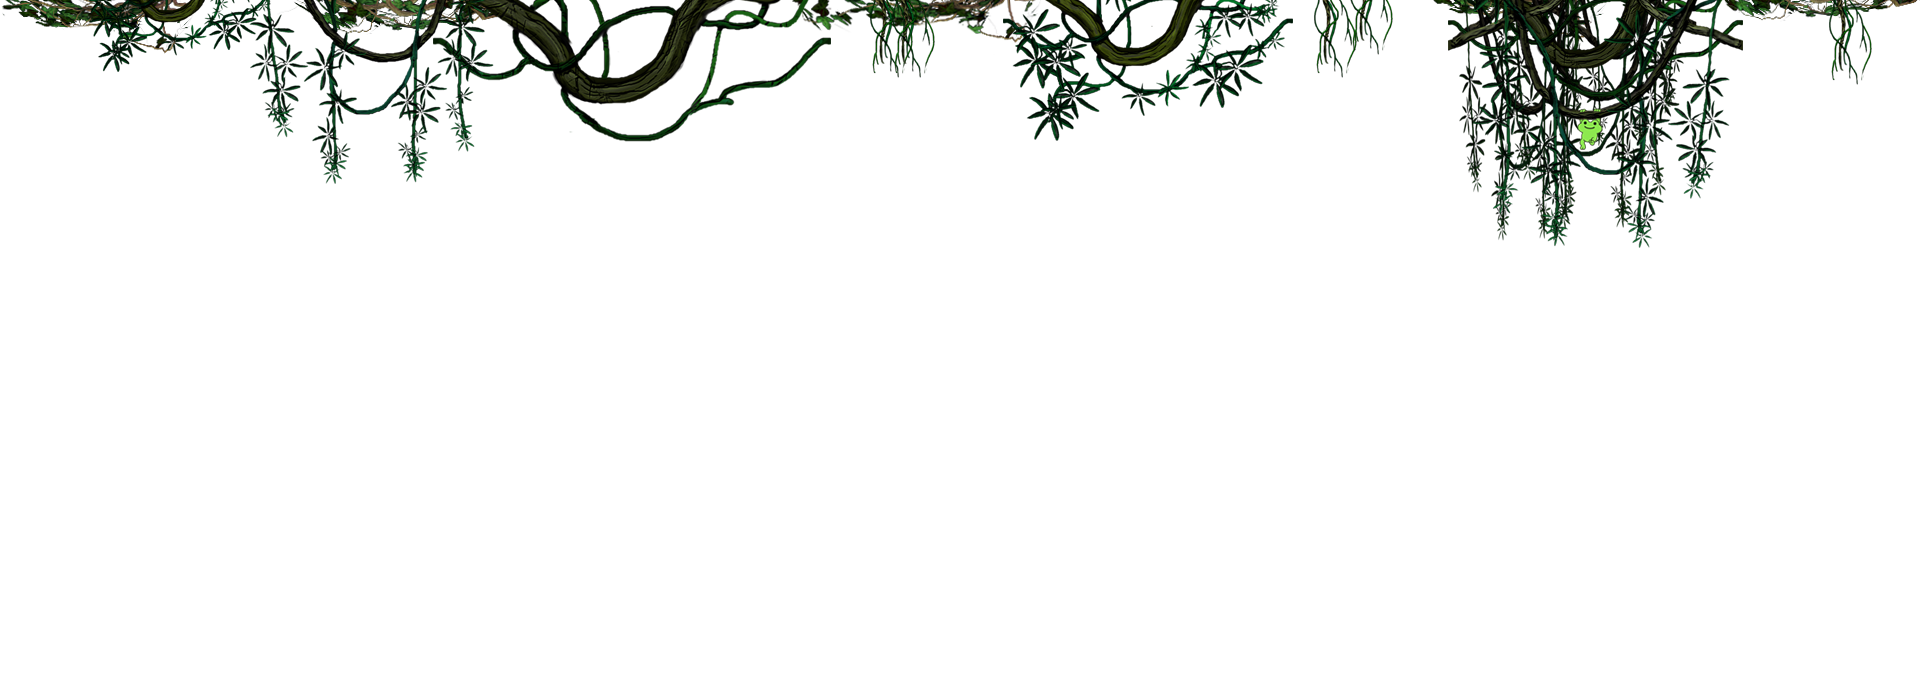
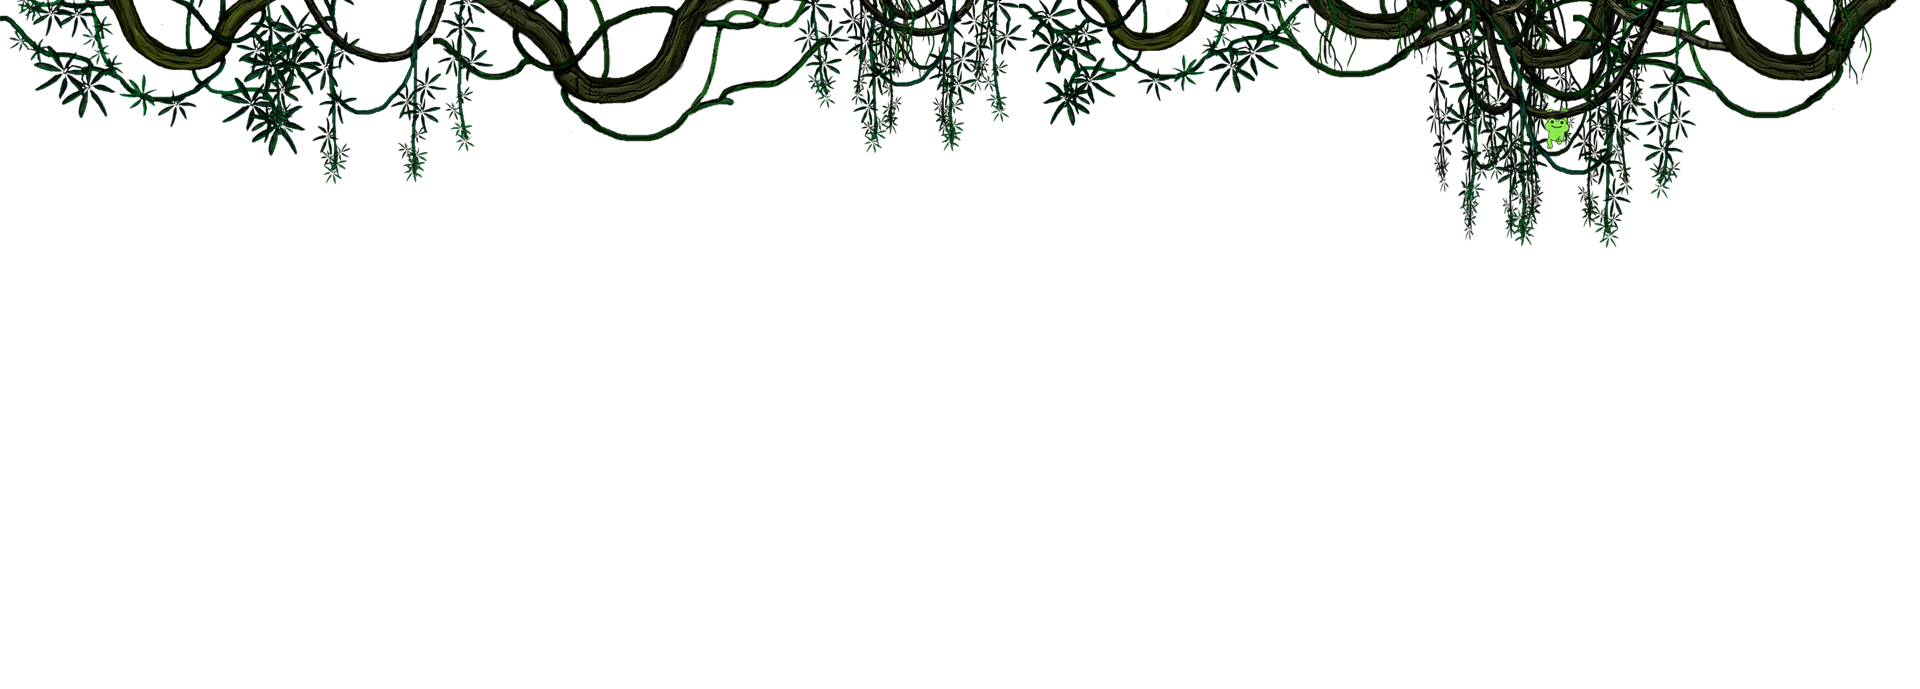
fixing up map 4 top vines. adding 2 new zabby images for map4 and ufo for bonusmap3

Changed region(s): [[0.4062, 0.0, 1.0, 0.3657], [0.0, 0.0, 0.2812, 0.2134]]

diff --git a/__tests__/background/background.test.js b/__tests__/background/background.test.js
@@ -24,7 +24,9 @@ import {
     ShootingStar,
     DragonSilhouette,
     MeteorBackground,
+    ZabbyFlyBy,
     Map3Zabby1FlyBy,
+    BonusMap3Zabby6FlyBy,
 } from '../../game/background/background.js';
 
 function makeSoundtrack() {
@@ -162,7 +164,7 @@ function seedDomImages() {
         'map4Trees4',
         'map4Trees2',
         'map4Trees1',
-        'map4TopVines',
+        'map4TopVines1',
         'map4Ground',
         // zabby
         'map4Zabby1',
@@ -285,6 +287,7 @@ function seedDomImages() {
         'bonusMap3Zabby3',
         'bonusMap3Zabby4',
         'bonusMap3Zabby5',
+        'bonusMap3Zabby6',
 
         // sprites
         'dragonSilhouette',
@@ -311,6 +314,7 @@ function seedDomImages() {
 
     setElSize('shark', 120, 60);
     setElSize('whale', 160, 80);
+    setElSize('bonusMap3Zabby6', 113, 80);
 
     // rain sprite sheet
     setElSize('raindropSplash', 120, 20);
@@ -1130,7 +1134,7 @@ describe('Map constructors', () => {
         { Cls: Map7, id: 'map7Soundtrack', expectedLen: 16 },
         { Cls: BonusMap1, id: 'bonusMap1Soundtrack', expectedLen: 11 },
         { Cls: BonusMap2, id: 'bonusMap2Soundtrack', expectedLen: 23 },
-        { Cls: BonusMap3, id: 'bonusMap3Soundtrack', expectedLen: 9 },
+        { Cls: BonusMap3, id: 'bonusMap3Soundtrack', expectedLen: 10 },
     ];
 
     test.each(specs)('%s wires soundtrack id and expected background layer count', ({ Cls, id, expectedLen }) => {
@@ -1810,12 +1814,12 @@ describe('ShootingStar', () => {
 });
 
 // -----------------------------------------------------------------------------
-// Map3Zabby1FlyBy
+// ZabbyFlyBy
 // -----------------------------------------------------------------------------
-describe('Map3Zabby1FlyBy', () => {
+describe('ZabbyFlyBy', () => {
     test('triggerOneShot spawns from either side and y is centered (40%-60% height)', () => {
         const game = { width: 600, height: 400 };
-        const flyby = new Map3Zabby1FlyBy(game);
+        const flyby = new ZabbyFlyBy(game);
         flyby.setOneShotImageIds(['map3Zabby1']);
 
         const ok = flyby.triggerOneShot();
@@ -1831,7 +1835,7 @@ describe('Map3Zabby1FlyBy', () => {
 
     test('update marks one-shot as shown when it goes offscreen', () => {
         const game = { width: 600, height: 400 };
-        const flyby = new Map3Zabby1FlyBy(game);
+        const flyby = new ZabbyFlyBy(game);
         flyby.setOneShotImageIds(['map3Zabby1']);
         flyby.triggerOneShot();
 
@@ -1852,7 +1856,7 @@ describe('Map3Zabby1FlyBy', () => {
 
         const smallFish = new SmallFish(game, 3);
         const bigFish = new BigFish(game, 1);
-        const flyby = new Map3Zabby1FlyBy(game);
+        const flyby = new ZabbyFlyBy(game);
 
         flyby.setOneShotImageIds(['map3Zabby1']);
 
@@ -1864,6 +1868,37 @@ describe('Map3Zabby1FlyBy', () => {
         expect(smallFish.backgroundEntities.length).toBe(smallFishCountBefore);
         expect(bigFish.backgroundEntities.length).toBe(bigFishCountBefore);
         expect(flyby._active).toBe(true);
+    });
+});
+
+describe('Map3Zabby1FlyBy', () => {
+    test('inherits the generic fly-by behavior for map 3 usage', () => {
+        const flyby = new Map3Zabby1FlyBy({ width: 600, height: 400 });
+        expect(flyby).toBeInstanceOf(ZabbyFlyBy);
+    });
+});
+
+describe('BonusMap3Zabby6FlyBy', () => {
+    test('triggerOneShot uses the bonus map 3 fly-by sprite and keeps the same across-screen behavior', () => {
+        const game = { width: 600, height: 400 };
+        const flyby = new BonusMap3Zabby6FlyBy(game);
+        flyby.setOneShotImageIds(['bonusMap3Zabby6']);
+
+        const ok = flyby.triggerOneShot();
+        expect(ok).toBe(true);
+        expect(flyby.imageId).toBe('bonusMap3Zabby6');
+        expect(flyby.image.width).toBe(113);
+        expect(flyby.image.height).toBe(80);
+        expect(flyby.y).toBeGreaterThanOrEqual(game.height * 0.4);
+        expect(flyby.y).toBeLessThanOrEqual(game.height * 0.6);
+
+        if (flyby._spawnedFromLeft) expect(flyby.x).toBeLessThan(0);
+        else expect(flyby.x).toBeGreaterThan(game.width);
+    });
+
+    test('inherits the generic fly-by behavior for bonus map 3 usage', () => {
+        const flyby = new BonusMap3Zabby6FlyBy({ width: 600, height: 400 });
+        expect(flyby).toBeInstanceOf(ZabbyFlyBy);
     });
 });
 

diff --git a/game/background/background.js b/game/background/background.js
@@ -544,7 +544,7 @@ export class Map4 extends Background {
             { imageId: 'map4Trees2', bgSpeed: 0.53 },
             { imageId: 'map4Trees1', bgSpeed: 0.65 },
             fireflyLayer3,
-            { imageId: 'map4TopVines', zabbyId: ['map4Zabby2', 'map4Zabby4'], bgSpeed: 0.92 },
+            { imageId: ['map4TopVines1', 'map4TopVines2'], zabbyId: ['map4Zabby2', 'map4Zabby4', 'map4Zabby5'], bgSpeed: 0.92 },
             { imageId: 'map4Ground', bgSpeed: 1 },
         );
 
@@ -799,7 +799,10 @@ export class BonusMap3 extends Background {
             minSpeed: 0.03,
             maxSpeed: 0.06,
         });
+        const zabby6FlyBy = new BonusMap3Zabby6FlyBy(game);
+
         meteors.setOneShotImageIds(['bonusMap3Zabby2']);
+        zabby6FlyBy.setOneShotImageIds(['bonusMap3Zabby6']);
 
         super(
             game,
@@ -807,6 +810,7 @@ export class BonusMap3 extends Background {
             starField,
             shootingStars,
             meteors,
+            zabby6FlyBy,
             { imageId: 'bonusMap3Stars', bgSpeed: 0.1 },
             { imageId: ['bonusMap3Planets6', 'bonusMap3Planets2', 'bonusMap3Planets3', 'bonusMap3Planets4', 'bonusMap3Planets5', 'bonusMap3Planets1'], zabbyId: ['bonusMap3Zabby3', 'bonusMap3Zabby4', 'bonusMap3Zabby5'], bgSpeed: 0.2 },
             { imageId: 'bonusMap3Nebula', zabbyId: 'bonusMap3Zabby1', bgSpeed: 0.35 },
@@ -963,8 +967,8 @@ export class Firefly extends EntityAnimation {
         context.globalAlpha = 1;
     }
 }
-export class Map3Zabby1FlyBy extends EntityAnimation {
-    constructor(game) {
+export class ZabbyFlyBy extends EntityAnimation {
+    constructor(game, options = {}) {
         super(game, 1);
 
         this.game = game;
@@ -981,14 +985,19 @@ export class Map3Zabby1FlyBy extends EntityAnimation {
 
         this._active = false;
 
-        this._minSpeed = 1.6;
-        this._maxSpeed = 2.6;
-        this._maxAngleRad = Math.PI / 24;
-        this._offscreenPad = 40;
+        this._minSpeed = options.minSpeed ?? 1.6;
+        this._maxSpeed = options.maxSpeed ?? 2.6;
+        this._maxAngleRad = options.maxAngleRad ?? Math.PI / 24;
+        this._offscreenPad = options.offscreenPad ?? 40;
 
-        this._spriteFacesRight = true;
+        this._spriteFacesRight = options.spriteFacesRight ?? true;
 
-        this._debug = false;
+        this._debug = options.debug ?? false;
+        this._spawnYBand = {
+            min: options.spawnYMin ?? 0.40,
+            max: options.spawnYMax ?? 0.60,
+        };
+        this._debugLabel = options.debugLabel ?? this.constructor.name;
 
         this._spawnedFromLeft = null;
     }
@@ -1006,8 +1015,8 @@ export class Map3Zabby1FlyBy extends EntityAnimation {
         const fromLeft = Math.random() < 0.5;
         this._spawnedFromLeft = fromLeft;
 
-        const yMin = this.game.height * 0.40;
-        const yMax = this.game.height * 0.60;
+        const yMin = this.game.height * this._spawnYBand.min;
+        const yMax = this.game.height * this._spawnYBand.max;
         this.y = this._rand(yMin, yMax);
 
         this.x = fromLeft
@@ -1026,7 +1035,7 @@ export class Map3Zabby1FlyBy extends EntityAnimation {
 
         if (this._debug) {
             console.log(
-                `[Map3Zabby1FlyBy] spawn=${fromLeft ? "LEFT" : "RIGHT"} ` +
+                `[${this._debugLabel}] spawn=${fromLeft ? "LEFT" : "RIGHT"} ` +
                 `dirX=${this.directionX.toFixed(2)} dirY=${this.directionY.toFixed(2)} ` +
                 `x=${this.x.toFixed(1)} y=${this.y.toFixed(1)}`
             );
@@ -1102,6 +1111,24 @@ export class Map3Zabby1FlyBy extends EntityAnimation {
         );
 
         context.restore();
+    }
+}
+
+export class Map3Zabby1FlyBy extends ZabbyFlyBy {
+    constructor(game, options = {}) {
+        super(game, {
+            debugLabel: 'Map3Zabby1FlyBy',
+            ...options,
+        });
+    }
+}
+
+export class BonusMap3Zabby6FlyBy extends ZabbyFlyBy {
+    constructor(game, options = {}) {
+        super(game, {
+            debugLabel: 'BonusMap3Zabby6FlyBy',
+            ...options,
+        });
     }
 }
 

diff --git a/game/style.css b/game/style.css
@@ -106,7 +106,7 @@ body {
 /* map3 */
 #map3Background, #map3Ground, #map3Zabby1, #map3Zabby2, #map3Zabby3, #map3Zabby4, #map3Zabby5, #map3BackgroundRocks, #map3seaPlants1, #map3seaPlants2, #map3seaPlants3, #map3seaPlants4, #map3seaPlants5, #map3seaPlants6, #map3seaPlants7, #map3seaPlants8, #map3seaPlants9, 
 /* map4 */ 
-#map4Background, #map4Ground, #map4Zabby1, #map4Zabby2, #map4Zabby3, #map4Zabby4, #map4BottomVines, #map4TopVines, #map4Trees1, #map4Trees2, #map4Trees3, #map4Trees4, 
+#map4Background, #map4Ground, #map4Zabby1, #map4Zabby2, #map4Zabby3, #map4Zabby4, #map4Zabby5, #map4BottomVines, #map4TopVines1, #map4TopVines2, #map4Trees1, #map4Trees2, #map4Trees3, #map4Trees4, 
 /* map5 */ 
 #map5Background, #map5Ground, #map5Zabby1, #map5Zabby2, #map5Zabby3, #map5Zabby4, #map5Flowers1, #map5Flowers2, #map5Bush1, #map5Bush2, #map5Trees1, #map5Trees2, #map5Trees3, #map5Trees4, #map5BigSunflowers1, #map5BigSunflowers2, #map5TallGrass, #map5Cattails,
 /* map6 */ 
@@ -118,7 +118,7 @@ body {
 /* bonusmap2 */ 
 #bonusMap2Background, #bonusMap2Ground, #bonusMap2Zabby1, #bonusMap2Zabby2, #bonusMap2Zabby3, #bonusMap2Zabby4, #bonusMap2SpikeRocks, #bonusMap2RockLayer1, #bonusMap2RockLayer2, #bonusMap2RockLayer3, #bonusMap2RockLayer4, #bonusMap2RockLayer5, #bonusMap2CrypticRocks1, #bonusMap2CrypticRocks2, #bonusMap2DeadTrees, #bonusMap2RedMist,
 /* bonusmap3 */ 
-#bonusMap3Background, #bonusMap3Ground, #bonusMap3Zabby1, #bonusMap3Zabby2, #bonusMap3Zabby3, #bonusMap3Zabby4, #bonusMap3Zabby5, #bonusMap3Stars, #bonusMap3PurpleSpiral, #bonusMap3Nebula, #bonusMap3Planets1, #bonusMap3Planets2, #bonusMap3Planets3, #bonusMap3Planets4, #bonusMap3Planets5, #bonusMap3Planets6, 
+#bonusMap3Background, #bonusMap3Ground, #bonusMap3Zabby1, #bonusMap3Zabby2, #bonusMap3Zabby3, #bonusMap3Zabby4, #bonusMap3Zabby5, #bonusMap3Zabby6, #bonusMap3Stars, #bonusMap3PurpleSpiral, #bonusMap3Nebula, #bonusMap3Planets1, #bonusMap3Planets2, #bonusMap3Planets3, #bonusMap3Planets4, #bonusMap3Planets5, #bonusMap3Planets6, 
 /* secondaryImageLayers */ 
     /* fish */ 
     #jellyfish, #fish, #fish2, #fish3, #fish4, #fish5, #fish6, #fish7, #fish8, #fish9, #fish10, #fish11, #shark, #whale, 

diff --git a/game/index.html b/game/index.html
@@ -813,8 +813,10 @@
 <img id="map4Zabby2" src="assets/mapsBackground/Map4/map4Zabby2.png">
 <img id="map4Zabby3" src="assets/mapsBackground/Map4/map4Zabby3.png">
 <img id="map4Zabby4" src="assets/mapsBackground/Map4/map4Zabby4.png">
+<img id="map4Zabby5" src="assets/mapsBackground/Map4/map4Zabby5.png">
 <img id="map4BottomVines" src="assets/mapsBackground/Map4/map4BottomVines.png">
-<img id="map4TopVines" src="assets/mapsBackground/Map4/map4TopVines.png">
+<img id="map4TopVines1" src="assets/mapsBackground/Map4/map4TopVines1.png">
+<img id="map4TopVines2" src="assets/mapsBackground/Map4/map4TopVines2.png">
 <img id="map4Trees1" src="assets/mapsBackground/Map4/map4Trees1.png">
 <img id="map4Trees2" src="assets/mapsBackground/Map4/map4Trees2.png">
 <img id="map4Trees3" src="assets/mapsBackground/Map4/map4Trees3.png">
@@ -914,6 +916,7 @@
 <img id="bonusMap3Zabby3" src="assets/mapsBackground/BonusMap3/bonusMap3Zabby3.png">
 <img id="bonusMap3Zabby4" src="assets/mapsBackground/BonusMap3/bonusMap3Zabby4.png">
 <img id="bonusMap3Zabby5" src="assets/mapsBackground/BonusMap3/bonusMap3Zabby5.png">
+<img id="bonusMap3Zabby6" src="assets/mapsBackground/BonusMap3/bonusMap3Zabby6.png">
 <img id="bonusMap3Stars" src="assets/mapsBackground/BonusMap3/bonusMap3Stars.png">
 <img id="bonusMap3PurpleSpiral" src="assets/mapsBackground/BonusMap3/bonusMap3PurpleSpiral.png">
 <img id="bonusMap3Nebula" src="assets/mapsBackground/BonusMap3/bonusMap3Nebula.png">

diff --git a/__tests__/interface/UI.test.js b/__tests__/interface/UI.test.js
@@ -1303,7 +1303,7 @@ describe('UI', () => {
         it('wraps around to index 0 after the last tip', () => {
             game.currentMap = 'Map1';
             ui.tipState._lastTipContext = 'Map1';
-            ui.tipState.index = 1;
+            ui.tipState.index = 2;
             ui.tipState.phase = 'hold';
             ui.cycleTip();
             expect(ui.tipState.index).toBe(0);
@@ -1390,7 +1390,7 @@ describe('UI', () => {
         });
 
         it('sets phase to null and opacity to 0 after fadeOut completes', () => {
-            jest.spyOn(Date, 'now').mockReturnValueOnce(0).mockReturnValueOnce(600);
+            jest.spyOn(Date, 'now').mockReturnValueOnce(0).mockReturnValueOnce(900);
             ui.tipState.phase = 'fadeOut';
             ui.tipState.opacity = 1;
             ui.tipState._lastTime = null;

diff --git a/__tests__/game-main.test.js b/__tests__/game-main.test.js
@@ -177,7 +177,7 @@ describe('Game class (game-main.js)', () => {
       <img id="map4Trees4">
       <img id="map4Trees2">
       <img id="map4Trees1">
-      <img id="map4TopVines">
+      <img id="map4TopVines1">
       <img id="map4Ground">
 
       <!-- Map5 -->
